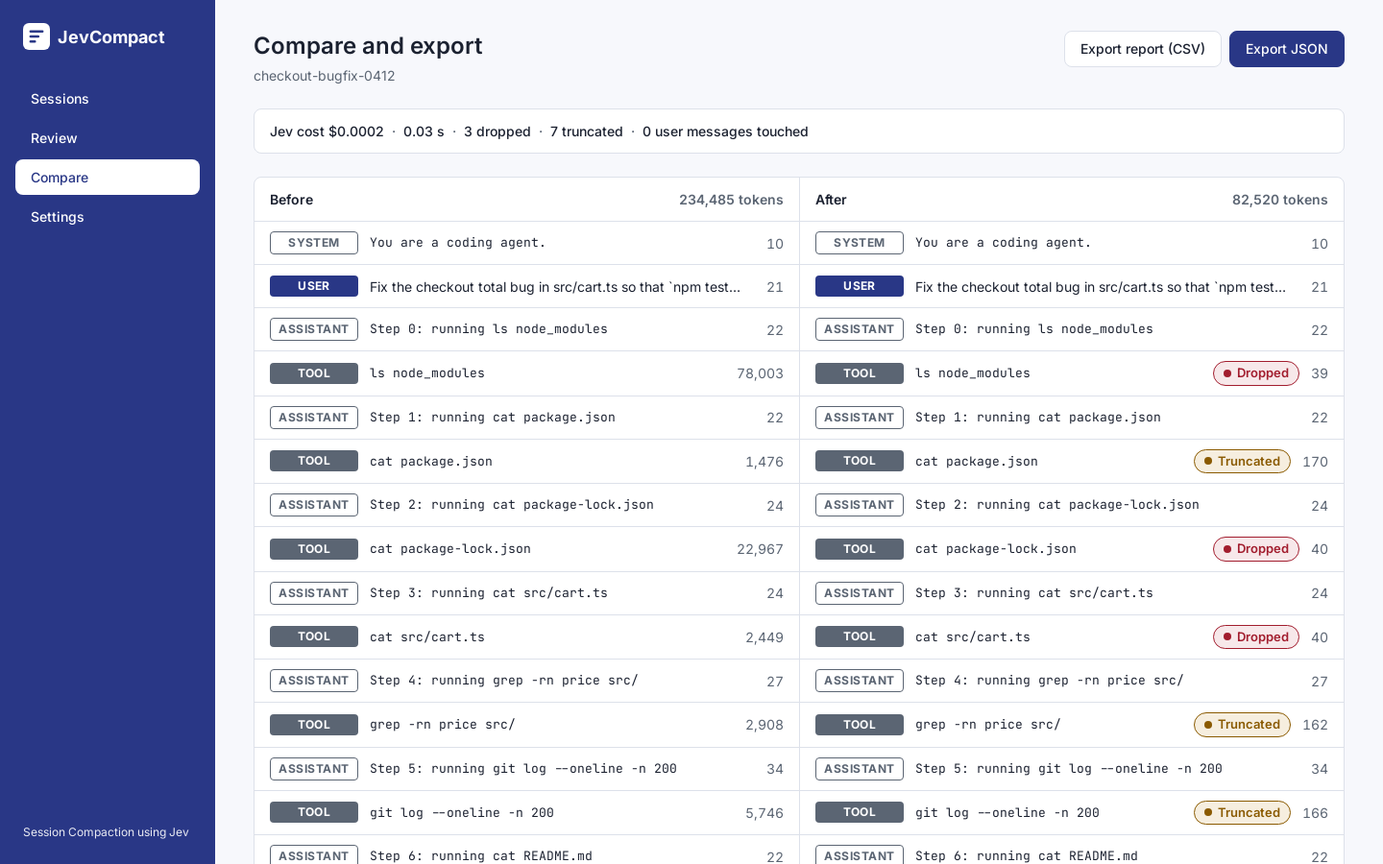
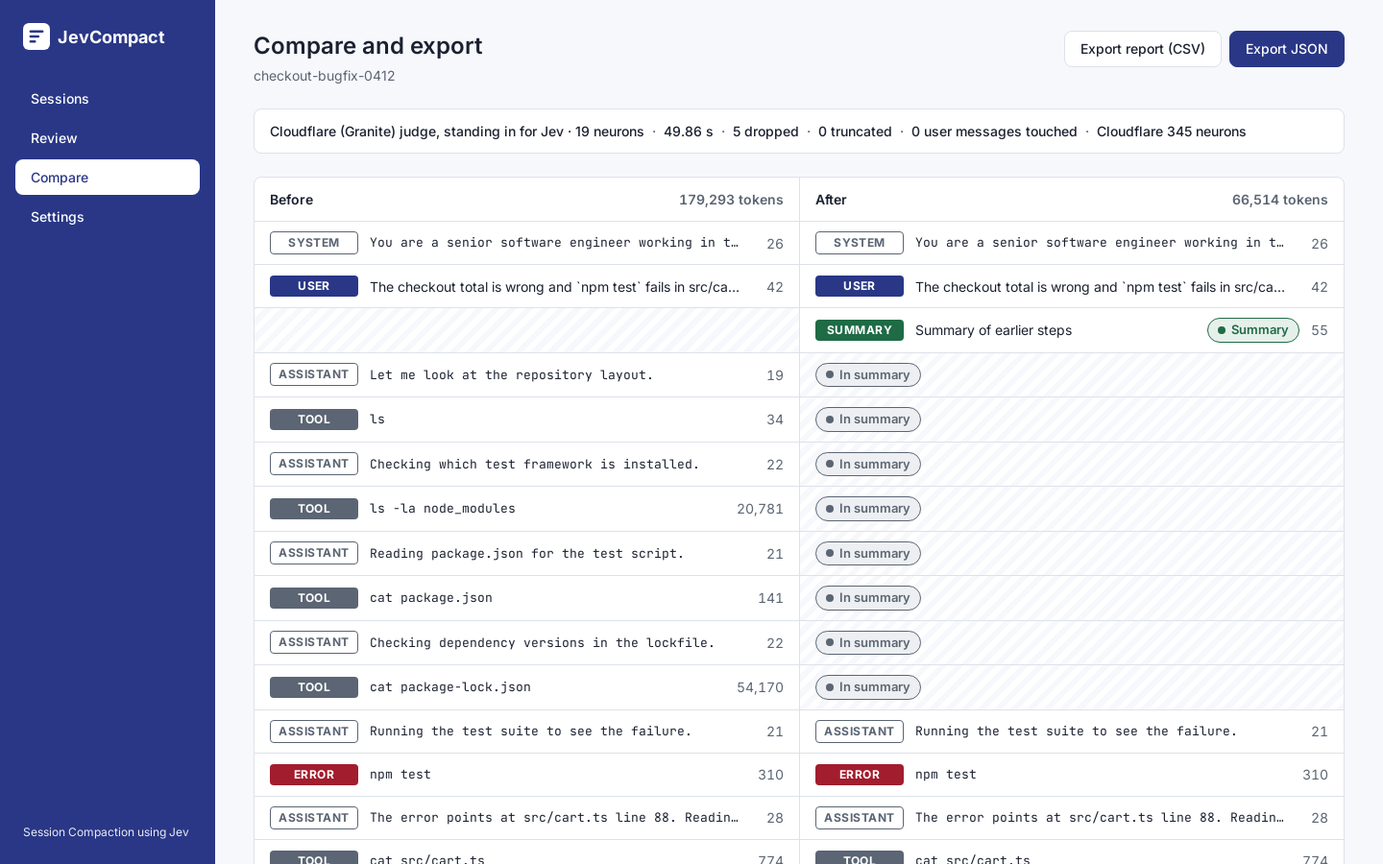
Screenshots 01-08 with the real Cloudflare providers, DB snapshots, report summary
Screenshots retaken on the real samples (Cloudflare (Granite) judge, standing
in for Jev); three database snapshots (sessions, runs incl. a restore
version, decision log); docs/report_assets/SUMMARY.md; README results and
PROGRESS.md updated (phases f and g done, NFR status, deviations).

diff --git a/docs/report_assets/db_snapshot_3_decisions.html b/docs/report_assets/db_snapshot_3_decisions.html
@@ -1,0 +1,9 @@
+<!doctype html><meta charset='utf-8'><title>Snapshot 3 — decisions for checkout-bugfix-0412 (the FR9 decision log)</title><style>
+body{font:13px/1.45 Inter,system-ui,sans-serif;color:#0b0b0b;background:#fcfcfb;margin:24px}
+h1{font-size:18px;margin:0 0 4px} p{color:#52514e;margin:0 0 14px;max-width:1200px}
+table{border-collapse:collapse;background:#fff;box-shadow:0 0 0 1px #e4e3df;border-radius:6px;overflow:hidden}
+th,td{padding:6px 10px;text-align:left;border-bottom:1px solid #eeede9;white-space:nowrap}
+th{background:#f3f2ee;font-weight:600;color:#33322f} td.num{text-align:right;font-variant-numeric:tabular-nums}
+td.mono,th.mono{font-family:'JetBrains Mono',ui-monospace,monospace;font-size:12px}
+.wrap{white-space:normal;max-width:420px}
+</style><h1>Snapshot 3 — decisions for checkout-bugfix-0412 (the FR9 decision log)</h1><p>One row per item per run: the judge&#x27;s score (Cloudflare (Granite) judge, standing in for Jev), the action and why. Pinned items (task, user messages, latest turn, errors) are never scored.</p><table><thead><tr><th>item_index</th><th>role</th><th>title</th><th>score</th><th>action</th><th>reason</th><th>tokens</th><th>tokens_after</th><th>summarized</th><th>restored</th></tr></thead><tbody><tr><td class='num  '>0</td><td class='  '>USER</td><td class='  mono'>The checkout total is wrong and `npm test` fails in src/cart.test.ts. Find and f…</td><td class='  '>NULL</td><td class='  '>Pinned</td><td class=' wrap '>task (first user message)</td><td class='num  '>38</td><td class='num  '>38</td><td class='num  '>0</td><td class='num  '>0</td></tr><tr><td class='num  '>1</td><td class='  '>TOOL</td><td class='  mono'>ls</td><td class='  '>0.00</td><td class='  '>Kept</td><td class=' wrap '>restored by user from the summary (was Dropped, score 0.00)</td><td class='num  '>30</td><td class='num  '>30</td><td class='num  '>1</td><td class='num  '>1</td></tr><tr><td class='num  '>2</td><td class='  '>TOOL</td><td class='  mono'>ls -la node_modules</td><td class='  '>0.00</td><td class='  '>Dropped</td><td class=' wrap '>score 0.00 &lt; drop 0.10 · then summarized</td><td class='num  '>20777</td><td class='num  '>0</td><td class='num  '>1</td><td class='num  '>0</td></tr><tr><td class='num  '>3</td><td class='  '>TOOL</td><td class='  mono'>cat package.json</td><td class='  '>1.00</td><td class='  '>Kept</td><td class=' wrap '>score 1.00 ≥ keep 0.50 · then summarized</td><td class='num  '>137</td><td class='num  '>0</td><td class='num  '>1</td><td class='num  '>0</td></tr><tr><td class='num  '>4</td><td class='  '>TOOL</td><td class='  mono'>cat package-lock.json</td><td class='  '>1.00</td><td class='  '>Kept</td><td class=' wrap '>score 1.00 ≥ keep 0.50 · then summarized</td><td class='num  '>54166</td><td class='num  '>0</td><td class='num  '>1</td><td class='num  '>0</td></tr><tr><td class='num  '>5</td><td class='  '>ERROR</td><td class='  mono'>npm test</td><td class='  '>NULL</td><td class='  '>Pinned</td><td class=' wrap '>error output</td><td class='num  '>306</td><td class='num  '>306</td><td class='num  '>0</td><td class='num  '>0</td></tr><tr><td class='num  '>6</td><td class='  '>TOOL</td><td class='  mono'>cat src/cart.ts</td><td class='  '>1.00</td><td class='  '>Kept</td><td class=' wrap '>score 1.00 ≥ keep 0.50</td><td class='num  '>770</td><td class='num  '>770</td><td class='num  '>0</td><td class='num  '>0</td></tr><tr><td class='num  '>7</td><td class='  '>TOOL</td><td class='  mono'>grep -rn price src/</td><td class='  '>0.00</td><td class='  '>Dropped</td><td class=' wrap '>score 0.00 &lt; drop 0.10</td><td class='num  '>4377</td><td class='num  '>37</td><td class='num  '>0</td><td class='num  '>0</td></tr><tr><td class='num  '>8</td><td class='  '>TOOL</td><td class='  mono'>cat src/types/cart.ts</td><td class='  '>1.00</td><td class='  '>Kept</td><td class=' wrap '>score 1.00 ≥ keep 0.50</td><td class='num  '>145</td><td class='num  '>145</td><td class='num  '>0</td><td class='num  '>0</td></tr><tr><td class='num  '>9</td><td class='  '>TOOL</td><td class='  mono'>cat src/money.ts</td><td class='  '>1.00</td><td class='  '>Kept</td><td class=' wrap '>score 1.00 ≥ keep 0.50</td><td class='num  '>183</td><td class='num  '>183</td><td class='num  '>0</td><td class='num  '>0</td></tr><tr><td class='num  '>10</td><td class='  '>TOOL</td><td class='  mono'>git log --oneline -n 400</td><td class='  '>0.00</td><td class='  '>Dropped</td><td class=' wrap '>score 0.00 &lt; drop 0.10</td><td class='num  '>4307</td><td class='num  '>41</td><td class='num  '>0</td><td class='num  '>0</td></tr><tr><td class='num  '>11</td><td class='  '>TOOL</td><td class='  mono'>cat README.md</td><td class='  '>1.00</td><td class='  '>Kept</td><td class=' wrap '>score 1.00 ≥ keep 0.50</td><td class='num  '>13657</td><td class='num  '>13657</td><td class='num  '>0</td><td class='num  '>0</td></tr><tr><td class='num  '>12</td><td class='  '>TOOL</td><td class='  mono'>cat docs/architecture.md</td><td class='  '>1.00</td><td class='  '>Kept</td><td class=' wrap '>score 1.00 ≥ keep 0.50</td><td class='num  '>21308</td><td class='num  '>21308</td><td class='num  '>0</td><td class='num  '>0</td></tr><tr><td class='num  '>13</td><td class='  '>TOOL</td><td class='  mono'>cat src/checkout/checkout.ts</td><td class='  '>1.00</td><td class='  '>Kept</td><td class=' wrap '>score 1.00 ≥ keep 0.50</td><td class='num  '>4505</td><td class='num  '>4505</td><td class='num  '>0</td><td class='num  '>0</td></tr><tr><td class='num  '>14</td><td class='  '>USER</td><td class='  mono'>Please don&#x27;t change the public API of cartTotal.</td><td class='  '>NULL</td><td class='  '>Pinned</td><td class=' wrap '>user message</td><td class='num  '>11</td><td class='num  '>11</td><td class='num  '>0</td><td class='num  '>0</td></tr><tr><td class='num  '>15</td><td class='  '>TOOL</td><td class='  mono'>npm run lint</td><td class='  '>1.00</td><td class='  '>Kept</td><td class=' wrap '>score 1.00 ≥ keep 0.50</td><td class='num  '>9079</td><td class='num  '>9079</td><td class='num  '>0</td><td class='num  '>0</td></tr><tr><td class='num  '>16</td><td class='  '>TOOL</td><td class='  mono'>cat coverage/lcov.info</td><td class='  '>0.00</td><td class='  '>Dropped</td><td class=' wrap '>score 0.00 &lt; drop 0.10</td><td class='num  '>29055</td><td class='num  '>37</td><td class='num  '>0</td><td class='num  '>0</td></tr><tr><td class='num  '>17</td><td class='  '>TOOL</td><td class='  mono'>cat src/legacy/pricing-v1.ts</td><td class='  '>1.00</td><td class='  '>Kept</td><td class=' wrap '>score 1.00 ≥ keep 0.50</td><td class='num  '>9581</td><td class='num  '>9581</td><td class='num  '>0</td><td class='num  '>0</td></tr><tr><td class='num  '>18</td><td class='  '>TOOL</td><td class='  mono'>cat CHANGELOG.md</td><td class='  '>1.00</td><td class='  '>Kept</td><td class=' wrap '>score 1.00 ≥ keep 0.50</td><td class='num  '>2656</td><td class='num  '>2656</td><td class='num  '>0</td><td class='num  '>0</td></tr><tr><td class='num  '>19</td><td class='  '>TOOL</td><td class='  mono'>cat src/cart.test.ts</td><td class='  '>1.00</td><td class='  '>Kept</td><td class=' wrap '>score 1.00 ≥ keep 0.50</td><td class='num  '>3424</td><td class='num  '>3424</td><td class='num  '>0</td><td class='num  '>0</td></tr><tr><td class='num  '>20</td><td class='  '>TOOL</td><td class='  mono'>apply_patch src/cart.ts</td><td class='  '>1.00</td><td class='  '>Kept</td><td class=' wrap '>score 1.00 ≥ keep 0.50</td><td class='num  '>101</td><td class='num  '>101</td><td class='num  '>0</td><td class='num  '>0</td></tr><tr><td class='num  '>21</td><td class='  '>TOOL</td><td class='  mono'>npm test</td><td class='  '>NULL</td><td class='  '>Pinned</td><td class=' wrap '>latest turn</td><td class='num  '>77</td><td class='num  '>77</td><td class='num  '>0</td><td class='num  '>0</td></tr></tbody></table>

diff --git a/docs/report_assets/db_snapshot_2_runs.html b/docs/report_assets/db_snapshot_2_runs.html
@@ -1,0 +1,9 @@
+<!doctype html><meta charset='utf-8'><title>Snapshot 2 — runs (one per compaction or restore; each is a version)</title><style>
+body{font:13px/1.45 Inter,system-ui,sans-serif;color:#0b0b0b;background:#fcfcfb;margin:24px}
+h1{font-size:18px;margin:0 0 4px} p{color:#52514e;margin:0 0 14px;max-width:1200px}
+table{border-collapse:collapse;background:#fff;box-shadow:0 0 0 1px #e4e3df;border-radius:6px;overflow:hidden}
+th,td{padding:6px 10px;text-align:left;border-bottom:1px solid #eeede9;white-space:nowrap}
+th{background:#f3f2ee;font-weight:600;color:#33322f} td.num{text-align:right;font-variant-numeric:tabular-nums}
+td.mono,th.mono{font-family:'JetBrains Mono',ui-monospace,monospace;font-size:12px}
+.wrap{white-space:normal;max-width:420px}
+</style><h1>Snapshot 2 — runs (one per compaction or restore; each is a version)</h1><p>judge = cloudflare is the Cloudflare (Granite) judge, standing in for Jev: cost is in judge_neurons, so jev_cost_usd is 0. summary_neurons is the Cloudflare summarizer&#x27;s cost (0 when pruning alone got under the budget).</p><table><thead><tr><th>id</th><th>session</th><th>seq</th><th>kind</th><th>preset</th><th>keep_threshold</th><th>drop_threshold</th><th>budget</th><th>judge</th><th>summarizer</th><th>status</th><th>tokens_before</th><th>tokens_after</th><th>judge_requests</th><th>judge_neurons</th><th>summary_neurons</th><th>jev_cost_usd</th><th>latency_ms</th><th>fallback_reason</th></tr></thead><tbody><tr><td class='  mono'>1085f063…</td><td class='  '>docs-migration</td><td class='num  '>1</td><td class='  '>run</td><td class='  '>balanced</td><td class='num  '>0.50</td><td class='num  '>0.10</td><td class='num  '>120000</td><td class='  '>cloudflare</td><td class='  '>cloudflare</td><td class='  '>Under budget</td><td class='num  '>64443</td><td class='num  '>64443</td><td class='num  '>0</td><td class='num  '>0.00</td><td class='num  '>0.00</td><td class='num  '>0.0000</td><td class='num  '>0.30</td><td class=' wrap '>NULL</td></tr><tr><td class='  mono'>3998699e…</td><td class='  '>data-pipeline-test</td><td class='num  '>1</td><td class='  '>run</td><td class='  '>balanced</td><td class='num  '>0.50</td><td class='num  '>0.10</td><td class='num  '>120000</td><td class='  '>cloudflare</td><td class='  '>cloudflare</td><td class='  '>Compacted</td><td class='num  '>147727</td><td class='num  '>1431</td><td class='num  '>1</td><td class='num  '>7.65</td><td class='num  '>0.00</td><td class='num  '>0.0000</td><td class='num  '>5090.90</td><td class=' wrap '>NULL</td></tr><tr><td class='  mono'>e065d0dc…</td><td class='  '>api-refactor-long</td><td class='num  '>1</td><td class='  '>run</td><td class='  '>balanced</td><td class='num  '>0.50</td><td class='num  '>0.10</td><td class='num  '>120000</td><td class='  '>cloudflare</td><td class='  '>cloudflare</td><td class='  '>Compacted</td><td class='num  '>185045</td><td class='num  '>5425</td><td class='num  '>1</td><td class='num  '>9.48</td><td class='num  '>0.00</td><td class='num  '>0.0000</td><td class='num  '>4789.90</td><td class=' wrap '>NULL</td></tr><tr><td class='  mono'>77420de0…</td><td class='  '>checkout-bugfix-0412</td><td class='num  '>1</td><td class='  '>run</td><td class='  '>balanced</td><td class='num  '>0.50</td><td class='num  '>0.10</td><td class='num  '>120000</td><td class='  '>cloudflare</td><td class='  '>cloudflare</td><td class='  '>Compacted</td><td class='num  '>179293</td><td class='num  '>66514</td><td class='num  '>2</td><td class='num  '>19.29</td><td class='num  '>344.75</td><td class='num  '>0.0000</td><td class='num  '>49859.00</td><td class=' wrap '>NULL</td></tr><tr><td class='  mono'>af049b5b…</td><td class='  '>checkout-bugfix-0412</td><td class='num  '>2</td><td class='  '>restore</td><td class='  '>balanced</td><td class='num  '>0.50</td><td class='num  '>0.10</td><td class='num  '>120000</td><td class='  '>cloudflare</td><td class='  '>cloudflare</td><td class='  '>Compacted</td><td class='num  '>179293</td><td class='num  '>66567</td><td class='num  '>0</td><td class='num  '>0.00</td><td class='num  '>0.00</td><td class='num  '>0.0000</td><td class='num  '>0.00</td><td class=' wrap '>NULL</td></tr></tbody></table>

diff --git a/docs/report_assets/db_snapshot_1_sessions.html b/docs/report_assets/db_snapshot_1_sessions.html
@@ -1,0 +1,9 @@
+<!doctype html><meta charset='utf-8'><title>Snapshot 1 — sessions</title><style>
+body{font:13px/1.45 Inter,system-ui,sans-serif;color:#0b0b0b;background:#fcfcfb;margin:24px}
+h1{font-size:18px;margin:0 0 4px} p{color:#52514e;margin:0 0 14px;max-width:1200px}
+table{border-collapse:collapse;background:#fff;box-shadow:0 0 0 1px #e4e3df;border-radius:6px;overflow:hidden}
+th,td{padding:6px 10px;text-align:left;border-bottom:1px solid #eeede9;white-space:nowrap}
+th{background:#f3f2ee;font-weight:600;color:#33322f} td.num{text-align:right;font-variant-numeric:tabular-nums}
+td.mono,th.mono{font-family:'JetBrains Mono',ui-monospace,monospace;font-size:12px}
+.wrap{white-space:normal;max-width:420px}
+</style><h1>Snapshot 1 — sessions</h1><p>One row per uploaded session; the original messages live in `messages` and are never modified. Judge: Cloudflare (Granite) judge, standing in for Jev.</p><table><thead><tr><th>id</th><th>name</th><th>format</th><th>message_count</th><th>tokens_before</th><th>tokens_after</th><th>status</th><th>current_run_id</th><th>created_at</th></tr></thead><tbody><tr><td class='  mono'>bf8b2f47…</td><td class='  '>docs-migration</td><td class='  '>anthropic</td><td class='num  '>24</td><td class='num  '>64443</td><td class='num  '>64443</td><td class='  '>Under budget</td><td class='  mono'>1085f063…</td><td class='  '>2026-11-24T19:10:51.915+00:00</td></tr><tr><td class='  mono'>49c850d0…</td><td class='  '>data-pipeline-test</td><td class='  '>openai</td><td class='num  '>38</td><td class='num  '>147727</td><td class='num  '>1431</td><td class='  '>Compacted</td><td class='  mono'>3998699e…</td><td class='  '>2026-11-24T19:10:52.067+00:00</td></tr><tr><td class='  mono'>103d6818…</td><td class='  '>api-refactor-long</td><td class='  '>anthropic</td><td class='num  '>42</td><td class='num  '>185045</td><td class='num  '>5425</td><td class='  '>Compacted</td><td class='  mono'>e065d0dc…</td><td class='  '>2026-11-24T19:10:57.371+00:00</td></tr><tr><td class='  mono'>bab0b1b5…</td><td class='  '>checkout-bugfix-0412</td><td class='  '>openai</td><td class='num  '>44</td><td class='num  '>179293</td><td class='num  '>66567</td><td class='  '>Compacted</td><td class='  mono'>af049b5b…</td><td class='  '>2026-11-24T19:11:02.361+00:00</td></tr></tbody></table>

diff --git a/docs/report_assets/SUMMARY.md b/docs/report_assets/SUMMARY.md
@@ -1,0 +1,99 @@
+# JevCompact — results summary for the project report
+
+*Session Compaction using Jev. Evaluation run on 24 November 2026 (UTC).*
+
+## 1. What was built
+JevCompact compacts long AI coding-agent sessions before they overflow the model's context. It has four parts:
+- a Python library;
+- a FastAPI server with SQLite;
+- a React dashboard;
+- an evaluation harness.
+
+How it compacts a session:
+1. It pins what must never be lost: the task, every user message, the latest turn and error outputs.
+2. It asks a judge one yes/no question about every older tool result.
+3. Based on the score it keeps, truncates or drops each result.
+4. Only if the session is still over budget, it summarizes the oldest turns and checks every summary line against the tool outputs.
+
+Anything removed can be restored in one click. Every decision is logged.
+
+All 12 functional requirements are implemented and tested: 166 Python tests and 21 Playwright UI tests.
+Architecture: `docs/diagrams/architecture.png`. Pipeline: `pipeline.png`. Sequence: `sequence.png`. Database: `er.png`.
+
+## 2. Change of plan: the judge
+Paid Jev was not used. In every table, chart and screenshot the judge is labelled **"Cloudflare (Granite) judge, standing in for Jev"**.
+
+- **What it is.** IBM Granite 4.0 micro on Cloudflare Workers AI's free tier. It gets Jev's exact yes/no questions and must reply with strict JSON scores from 0 to 1 at temperature 0. An invalid reply is retried once. A second invalid reply counts as a judge failure, so the plain-summary fallback still works.
+- **Why Granite.** It is the cheapest model that returned valid JSON on every request in a bake-off on a held-out session (`docs/measurements/judge_model_bakeoff.json`).
+  - GLM-4.7-flash (the summarizer's model) scored every item 0 with its reasoning off.
+  - With reasoning on, GLM worked, but cost about 6× more and often took over 60 s.
+- **Caveat.** Granite's scores are not calibrated like Jev's. In practice they are almost always exactly 0 or 1.
+
+## 3. Method
+- **Data.** Six realistic sessions (64k–210k tokens; OpenAI and Anthropic formats). Every tool result was hand-labelled needed or not before any judge ran (`eval/LABELS.md`).
+- **Budget.** 120k tokens, so five sessions need compaction.
+- **Methods compared.** FIFO sliding window, plain summary only, prune only (judge), and the full JevCompact hybrid.
+- **Compaction point.** Each session is compacted just before the agent's final "done" message. Compaction fires mid-task in practice. Asked after the task is finished what is "still needed to finish the task", the judge says "nothing".
+- **Main metric.** *Needed items kept*: hand-labelled needed tool results still present word for word. The target was ≥ 95%.
+
+## 4. Results (real run, 5 sessions over budget, default thresholds 0.50 / 0.10)
+
+| Method | Tokens saved | Needed items kept | User messages lost | Cost per session |
+|---|---|---|---|---|
+| FIFO sliding window | 49.3% | 60.5% | **6** | free |
+| Plain summary only | 36.0% (45.0%¹) | **76.3%** (70.0%¹) | 0 | ~416 neurons (520¹), 44–81 s |
+| Prune only (Cloudflare (Granite) judge, standing in for Jev) | **81.0%** | 57.9% | 0 | ~8 neurons, 3–6 s |
+| JevCompact hybrid (same judge) | **81.0%** | 57.9% | 0 | ~8 neurons, 3–6 s |
+
+¹ The plain summary failed on one session (api-refactor-long). GLM returned an empty reply three times, so that session was left unsummarized. The figures in brackets exclude it.
+
+Figures: `docs/figures/tokens_saved_real.png`, `needed_kept_real.png`. Full tables: `eval/results.md`.
+
+**Thresholds: default vs tuned.** The sweep over the recorded scores picked keep 0.50 / drop 0.10, the same as the default. Every point on the grid keeps the same 57.9% of needed items, because a score of exactly 0 or 1 can never fall between thresholds. A leave-one-session-out check gives the same result for every session. Tuning thresholds cannot fix this judge.
+
+**Clipping trade-off** (prune only; how much of each tool output the judge sees):
+
+| Tokens per output shown to the judge | Needed kept | Judge neurons per session |
+|---|---|---|
+| 300 (default) | 57.5% | 8 |
+| 1000 | 57.5% | 18 |
+| unclipped | 39.2% | 141 |
+
+Showing the judge more text did not help, and showing it everything made it worse: 7–8 requests per session instead of 1.
+
+**Secondary run (mock judge, clearly separate).** Prune only and the hybrid saved 82.9% and kept 71.1% of needed items, against 60.5% for FIFO and 63.2% for the plain summary. So the pipeline itself works as designed. The weak point in the real run is the stand-in judge.
+
+## 5. What the results show, in plain English
+- **JevCompact saves the most space and never loses a user message.** It cut sessions by 81% on average. FIFO cut 49% but threw away 6 user messages, including tasks. The plain summary cut 36–45%.
+- **It is cheap and fast.** About 8 neurons and 3–6 seconds per session. The plain summary needed 416–520 neurons and 44–81 seconds, and failed outright once.
+- **Where JevCompact does worse: it keeps fewer of the items the agent actually needs.** It kept 57.9% of needed items. The plain summary kept 70–76% and FIFO 60.5%. On auth-session-expiry it kept 3 of 8 needed items, while both baselines kept 5.
+- **Why.** The free judge marks most tool outputs as "not needed" (score 0), including some that are. Everything scored 0 is dropped. The 95% target for needed items is not met, and no threshold setting can reach it with this judge.
+- **The hybrid never had to summarize** in this run: pruning alone always got under the budget. So the summary-check step (removing invented lines) was not exercised by the real evaluation. It is covered by tests and by the mock run.
+
+## 6. Requirements status
+| Requirement | Status |
+|---|---|
+| FR1–FR12 | Implemented and tested (library, API, UI) |
+| Performance: scoring P95 < 1 s | Met with the mock at Jev's latency. **Not met** by the Cloudflare judge: ~15 s for 32k tokens of candidates (`docs/measurements/tc_p1_latency_cf_judge_real.json`). |
+| Cost ≤ $0.002 per compaction | Met in mock ($0.0002). The real judge is free within 10,000 neurons/day (~8 neurons per session). |
+| Accuracy ≥ 95% needed items kept | **Not met** with the stand-in judge (57.9%); 71.1% with the mock |
+| Reliability (fallback, no user message lost) | Met: 0 user messages lost in every judge run; fallback tested |
+| Security, maintainability | Met (encrypted keys, localhost only, swappable judges) |
+| Portability | Setup scripts for Windows, macOS and Linux; tested on Linux only |
+
+## 7. Limitations and next steps
+- Run the same evaluation with real Jev (`JUDGE=jev`); the harness is ready.
+- Or try GLM-4.7-flash with reasoning as the judge (`CF_JUDGE_MODEL`). It found needed items in the bake-off, at about 6× the cost.
+- More sessions and independent labellers; six sessions labelled by the team is a small evidence base.
+- Free-tier budget: the evaluation, live tests and judge selection used about 8,600 of the 10,000 daily neurons. That figure includes conservative estimates for calls that timed out.
+
+## 8. Assets in this folder and elsewhere
+| Asset | Path |
+|---|---|
+| Screenshots 01–08 (real samples, Cloudflare judge; 05 uses the mock to force a real timeout) | `docs/screenshots/` |
+| Database snapshots: sessions, runs (incl. a restore version), decision log | `docs/report_assets/db_snapshot_1_sessions.png`, `_2_runs.png`, `_3_decisions.png` (+ `.md`) |
+| Charts | `docs/figures/` |
+| Diagrams | `docs/diagrams/*.png` (Mermaid sources `*.mmd`) |
+| Full results and CSVs | `eval/results.md`, `eval/results.csv`, `eval/clipping.csv`, `eval/threshold_sweep.csv`, `eval/threshold_loso.csv` |
+| Measurements (each marked mock or real) | `docs/measurements/` |
+| Design deviations | `PROGRESS.md` |

diff --git a/PROGRESS.md b/PROGRESS.md
@@ -18,14 +18,14 @@ Ticked only when the linked test passes. Phase in brackets.
 
 ## Non-functional requirements
 - [x] Performance (mock): TC-P1 scoring-step P95 < 1 s with MockJudge at 70–500 ms — `tests/test_nfr.py`, `docs/measurements/tc_p1_latency.json` (also records prune + check P95).
-- [ ] Performance (real): real-Jev scoring P95, prune + check P95, and time with the real summarizer — `tests/test_live.py`, needs keys.
+- [ ] Performance (real): no paid Jev. With the Cloudflare (Granite) judge, standing in for Jev, scoring 32k tokens of candidates takes 14–21 s, so the 1 s target is **not met** by the stand-in (`docs/measurements/tc_p1_latency_cf_judge_real.json`). The real summarizer: one summary 10 s (small) to 44–81 s (70k–95k tokens); full compaction with the real summarizer 9.7 s (`summarizer_latency_real.json`, `eval/first_call_latency_real.json`).
 - [x] Cost (mock) ≤ $0.002 per compaction (tiktoken counts, 175k-token session) — `docs/measurements/cost.json`.
-- [ ] Cost (real) from Jev-billed `usage.input_tokens` — `tests/test_live.py`, needs keys. Cloudflare cost reported as neurons.
+- [x] Cost (real): no Jev billing (paid Jev not used). The Cloudflare judge costs ~8 neurons per 180k-token session (free tier 10,000/day); summaries 416–610 neurons — `eval/results.md`, `docs/measurements/`.
 - [x] Reliability: automatic fallback + property test (200 generated sessions, 0 user messages lost) — `tests/test_nfr.py`
-- [ ] Accuracy ≥ 95% needed items kept (f)
+- [ ] Accuracy ≥ 95% needed items kept (f): **not met**. The Cloudflare (Granite) judge, standing in for Jev, kept 57.9% at default and tuned thresholds (the sweep can't help binary scores); the mock run kept 71.1% — `eval/results.md`.
 - [x] Security: Fernet-encrypted at rest, masked in API responses and UI, redacted from logs, server binds 127.0.0.1 — `tests/test_api.py::test_keys_encrypted_masked_never_returned` (c), `dashboard/e2e/settings.spec.ts` (e)
 - [x] Maintainability: Judge / Summarizer protocols, mocks swappable — `tests/test_nfr.py`
-- [ ] Portability: Windows / macOS / Linux, no GPU (g: README + scripts; only Linux tested so far)
+- [x] Portability: Windows / macOS / Linux, no GPU — `scripts/setup.sh`, `scripts/setup.ps1`, README; **only Linux tested**.
 
 ## Test cases
 - [x] TC-03 user message never dropped
@@ -45,8 +45,8 @@ Ticked only when the linked test passes. Phase in brackets.
 - [x] (c) Database + FastAPI (live provider tests still pending keys)
 - [x] (d) React dashboard (typecheck + build pass; UI tests come in e)
 - [x] (e) Playwright tests + screenshots (21 UI tests; `docs/screenshots/01–08`, preview data until phase f)
-- [ ] (f) Sample data + evaluation
-- [ ] (g) Docs and diagrams
+- [x] (f) Sample data + evaluation — real run with the Cloudflare (Granite) judge, standing in for Jev (phases A main, B tuned, C clip 1000, D unclipped), mock secondary run; `eval/results.md`, `docs/figures/`. Screenshots 01–08 retaken on the real samples with the real Cloudflare providers (05 uses the mock to force a real timeout).
+- [x] (g) Docs and diagrams — README, `docs/diagrams/` (architecture, pipeline, sequence, ER; `.mmd` + `.png`), setup scripts, DB snapshots and the report summary in `docs/report_assets/`.
 
 ## Design deviations
 - **No paid Jev: a free Cloudflare judge stands in for it** (decided 2026-11-24). `CloudflareJudge` (`jevcompact/judges/cloudflare.py`) implements the same Judge interface on Cloudflare Workers AI, with the same account and token as the summarizer. Every request carries the same state and the same yes/no questions Jev would get. The model must reply with strict JSON `{"scores": {"<id>": 0..1}}` at temperature 0. Requests are batched (16k tokens per request instead of Jev's 32k). An invalid reply is retried once; a second invalid reply raises `JudgeError`, so the pipeline falls back exactly as on a Jev failure. Selected with `JUDGE=jev|cloudflare|mock`. The server picks Jev if a Jev key is saved, else Cloudflare if Cloudflare keys are saved, else mock. The evaluation uses `JUDGE=cloudflare` unless `JUDGE=jev`. `JevJudge` and its tests are unchanged. Everywhere results appear, the judge is labelled "Cloudflare (Granite) judge, standing in for Jev". The label comes from `CF_JUDGE_MODEL`, so if that is switched to GLM it reads "Cloudflare (GLM) judge, standing in for Jev".
@@ -62,6 +62,10 @@ Ticked only when the linked test passes. Phase in brackets.
   - Cost (pricing page): 5,500 neurons per M input tokens, 36,400 per M output tokens. Per summary: ~65 neurons for 5k input + 1k output (~155 summaries/day on the free 10,000 neurons), ~165 neurons for 20k + 1.5k (~60/day), ~735 neurons for a full 120k + 2k (~13/day). Real numbers will come from the live test.
 
 ## Notes / decisions
+- 2026-11-24: **"Restored" label fix.** A restored item's chip on Review now reads "Restored", with the judge's score in the tooltip. Before, it read e.g. "Kept 0.02", which contradicted its score. Compare marks items restored in place as "Restored" too, not only items restored from the summary — `tests/test_api.py::test_restore_returns_verbatim_and_undo_redo`, `dashboard/e2e/review.spec.ts`.
+- 2026-11-24: runs store `judge_neurons` (new column, added to old databases on start). The Review and Compare headers show "Cloudflare (Granite) judge, standing in for Jev · N neurons" instead of "Jev cost $0.0000" for that judge.
+- 2026-11-24: Cloudflare summarizer timeout raised 60 → 180 s and GLM output budget 2,048 → 4,096 tokens. Two plain summaries of 70k–95k tokens timed out at 60 s. The largest one (api-refactor-long, 57k + 70k-token parts) still came back empty three times, and is reported as a summarizer failure.
+- Evaluation free-tier use on UTC day 2026-11-24: 8,612 of 10,000 neurons, under the 9,000 stop limit. This covers the judge bake-off and debugging, the live tests, all four evaluation phases and the screenshots, and includes estimates for timed-out calls. Phases B and D fitted, so nothing was skipped. Judge replies and summaries are cached, so re-running costs nothing except the one failed summary.
 - Phase (e): `npm run test:e2e` starts three local API servers (main; slow, where MockJudge takes 6 s so the 5 s Jev timeout and fallback really happen; clean one for screenshots) with fresh data in `.e2e-data/`. `npm run screenshots` writes `docs/screenshots/*.png` at 1440×900. Both use `data/samples/` once it exists, otherwise the generated preview sessions (`scripts/preview_sessions.py`), which is what the current screenshots show. `MOCK_JUDGE_LATENCY_MS` (e.g. `70,500`) sets MockJudge latency.
 - Bugs found by the UI tests and fixed: (1) threshold edits made while the review page was still loading were overwritten, so Re-run could send the old thresholds; (2) item rows were `role=button` containing the Restore button (nested interactive controls) — the title is now the expand button; (3) "No items." showed while a large session was still loading — now "Loading items…".
 - Dashboard (d): font sizes from the style guide (24 / 14 / 13 pt) are applied as CSS px, the usual meaning of "pt" in screen designs. Fonts are bundled with @fontsource, so the UI makes no external requests.

diff --git a/docs/report_assets/db_snapshot_3_decisions.md b/docs/report_assets/db_snapshot_3_decisions.md
@@ -1,0 +1,28 @@
+# Snapshot 3 — decisions for checkout-bugfix-0412 (the FR9 decision log)
+
+One row per item per run: the judge's score (Cloudflare (Granite) judge, standing in for Jev), the action and why. Pinned items (task, user messages, latest turn, errors) are never scored.
+
+| item_index | role | title | score | action | reason | tokens | tokens_after | summarized | restored |
+|---|---|---|---|---|---|---|---|---|---|
+| 0 | USER | The checkout total is wrong and `npm test` fails in src/cart.test.ts. Find and f… | NULL | Pinned | task (first user message) | 38 | 38 | 0 | 0 |
+| 1 | TOOL | ls | 0.00 | Kept | restored by user from the summary (was Dropped, score 0.00) | 30 | 30 | 1 | 1 |
+| 2 | TOOL | ls -la node_modules | 0.00 | Dropped | score 0.00 < drop 0.10 · then summarized | 20777 | 0 | 1 | 0 |
+| 3 | TOOL | cat package.json | 1.00 | Kept | score 1.00 ≥ keep 0.50 · then summarized | 137 | 0 | 1 | 0 |
+| 4 | TOOL | cat package-lock.json | 1.00 | Kept | score 1.00 ≥ keep 0.50 · then summarized | 54166 | 0 | 1 | 0 |
+| 5 | ERROR | npm test | NULL | Pinned | error output | 306 | 306 | 0 | 0 |
+| 6 | TOOL | cat src/cart.ts | 1.00 | Kept | score 1.00 ≥ keep 0.50 | 770 | 770 | 0 | 0 |
+| 7 | TOOL | grep -rn price src/ | 0.00 | Dropped | score 0.00 < drop 0.10 | 4377 | 37 | 0 | 0 |
+| 8 | TOOL | cat src/types/cart.ts | 1.00 | Kept | score 1.00 ≥ keep 0.50 | 145 | 145 | 0 | 0 |
+| 9 | TOOL | cat src/money.ts | 1.00 | Kept | score 1.00 ≥ keep 0.50 | 183 | 183 | 0 | 0 |
+| 10 | TOOL | git log --oneline -n 400 | 0.00 | Dropped | score 0.00 < drop 0.10 | 4307 | 41 | 0 | 0 |
+| 11 | TOOL | cat README.md | 1.00 | Kept | score 1.00 ≥ keep 0.50 | 13657 | 13657 | 0 | 0 |
+| 12 | TOOL | cat docs/architecture.md | 1.00 | Kept | score 1.00 ≥ keep 0.50 | 21308 | 21308 | 0 | 0 |
+| 13 | TOOL | cat src/checkout/checkout.ts | 1.00 | Kept | score 1.00 ≥ keep 0.50 | 4505 | 4505 | 0 | 0 |
+| 14 | USER | Please don't change the public API of cartTotal. | NULL | Pinned | user message | 11 | 11 | 0 | 0 |
+| 15 | TOOL | npm run lint | 1.00 | Kept | score 1.00 ≥ keep 0.50 | 9079 | 9079 | 0 | 0 |
+| 16 | TOOL | cat coverage/lcov.info | 0.00 | Dropped | score 0.00 < drop 0.10 | 29055 | 37 | 0 | 0 |
+| 17 | TOOL | cat src/legacy/pricing-v1.ts | 1.00 | Kept | score 1.00 ≥ keep 0.50 | 9581 | 9581 | 0 | 0 |
+| 18 | TOOL | cat CHANGELOG.md | 1.00 | Kept | score 1.00 ≥ keep 0.50 | 2656 | 2656 | 0 | 0 |
+| 19 | TOOL | cat src/cart.test.ts | 1.00 | Kept | score 1.00 ≥ keep 0.50 | 3424 | 3424 | 0 | 0 |
+| 20 | TOOL | apply_patch src/cart.ts | 1.00 | Kept | score 1.00 ≥ keep 0.50 | 101 | 101 | 0 | 0 |
+| 21 | TOOL | npm test | NULL | Pinned | latest turn | 77 | 77 | 0 | 0 |

diff --git a/README.md b/README.md
@@ -153,7 +153,25 @@ Full tables: [eval/results.md](eval/results.md). Charts: [docs/figures/](docs/fi
 [docs/report_assets/SUMMARY.md](docs/report_assets/SUMMARY.md).
 
 <!-- RESULTS:START -->
-(filled in from eval/results.md)
+Real run on 24 Nov 2026 (UTC). Five sample sessions over the 120k budget; default thresholds 0.50 / 0.10.
+Judge: **Cloudflare (Granite) judge, standing in for Jev**. Summarizer: Cloudflare GLM-4.7-flash.
+
+| Method | Tokens saved | Needed items kept | User messages lost | Cost per session |
+|---|---|---|---|---|
+| FIFO sliding window | 49.3% | 60.5% | 6 | free |
+| Plain summary only | 36.0% (45.0%¹) | 76.3% (70.0%¹) | 0 | ~416 neurons (520¹), 44–81 s |
+| Prune only (Cloudflare (Granite) judge, standing in for Jev) | 81.0% | 57.9% | 0 | ~8 neurons, 3–6 s |
+| JevCompact hybrid (Cloudflare (Granite) judge, standing in for Jev) | 81.0% | 57.9% | 0 | ~8 neurons, 3–6 s |
+
+¹ excluding api-refactor-long, where the GLM summary came back empty three times.
+
+- **Better:** JevCompact saves the most tokens, loses no user messages (FIFO lost 6), and costs a fraction of a summary.
+- **Worse:** it keeps fewer of the needed items than the baselines. The stand-in judge scores almost everything 0 or 1 and marks some needed outputs 0. So the 95% target is not met.
+  - Tuned thresholds equal the default: binary scores leave nothing to tune.
+  - Showing the judge whole outputs instead of 300 tokens made it worse (39.2% kept).
+- **Mock run** (separate): the hybrid kept 71.1% of needed items against 60.5% for FIFO and 63.2% for plain.
+
+![Needed items kept](docs/figures/needed_kept_real.png)
 <!-- RESULTS:END -->
 
 ## Tests

diff --git a/docs/report_assets/db_snapshot_2_runs.md b/docs/report_assets/db_snapshot_2_runs.md
@@ -1,0 +1,11 @@
+# Snapshot 2 — runs (one per compaction or restore; each is a version)
+
+judge = cloudflare is the Cloudflare (Granite) judge, standing in for Jev: cost is in judge_neurons, so jev_cost_usd is 0. summary_neurons is the Cloudflare summarizer's cost (0 when pruning alone got under the budget).
+
+| id | session | seq | kind | preset | keep_threshold | drop_threshold | budget | judge | summarizer | status | tokens_before | tokens_after | judge_requests | judge_neurons | summary_neurons | jev_cost_usd | latency_ms | fallback_reason |
+|---|---|---|---|---|---|---|---|---|---|---|---|---|---|---|---|---|---|---|
+| 1085f063… | docs-migration | 1 | run | balanced | 0.50 | 0.10 | 120000 | cloudflare | cloudflare | Under budget | 64443 | 64443 | 0 | 0.00 | 0.00 | 0.0000 | 0.30 | NULL |
+| 3998699e… | data-pipeline-test | 1 | run | balanced | 0.50 | 0.10 | 120000 | cloudflare | cloudflare | Compacted | 147727 | 1431 | 1 | 7.65 | 0.00 | 0.0000 | 5090.90 | NULL |
+| e065d0dc… | api-refactor-long | 1 | run | balanced | 0.50 | 0.10 | 120000 | cloudflare | cloudflare | Compacted | 185045 | 5425 | 1 | 9.48 | 0.00 | 0.0000 | 4789.90 | NULL |
+| 77420de0… | checkout-bugfix-0412 | 1 | run | balanced | 0.50 | 0.10 | 120000 | cloudflare | cloudflare | Compacted | 179293 | 66514 | 2 | 19.29 | 344.75 | 0.0000 | 49859.00 | NULL |
+| af049b5b… | checkout-bugfix-0412 | 2 | restore | balanced | 0.50 | 0.10 | 120000 | cloudflare | cloudflare | Compacted | 179293 | 66567 | 0 | 0.00 | 0.00 | 0.0000 | 0.00 | NULL |

diff --git a/docs/report_assets/db_snapshot_1_sessions.md b/docs/report_assets/db_snapshot_1_sessions.md
@@ -1,0 +1,10 @@
+# Snapshot 1 — sessions
+
+One row per uploaded session; the original messages live in `messages` and are never modified. Judge: Cloudflare (Granite) judge, standing in for Jev.
+
+| id | name | format | message_count | tokens_before | tokens_after | status | current_run_id | created_at |
+|---|---|---|---|---|---|---|---|---|
+| bf8b2f47… | docs-migration | anthropic | 24 | 64443 | 64443 | Under budget | 1085f063… | 2026-11-24T19:10:51.915+00:00 |
+| 49c850d0… | data-pipeline-test | openai | 38 | 147727 | 1431 | Compacted | 3998699e… | 2026-11-24T19:10:52.067+00:00 |
+| 103d6818… | api-refactor-long | anthropic | 42 | 185045 | 5425 | Compacted | e065d0dc… | 2026-11-24T19:10:57.371+00:00 |
+| bab0b1b5… | checkout-bugfix-0412 | openai | 44 | 179293 | 66567 | Compacted | af049b5b… | 2026-11-24T19:11:02.361+00:00 |
